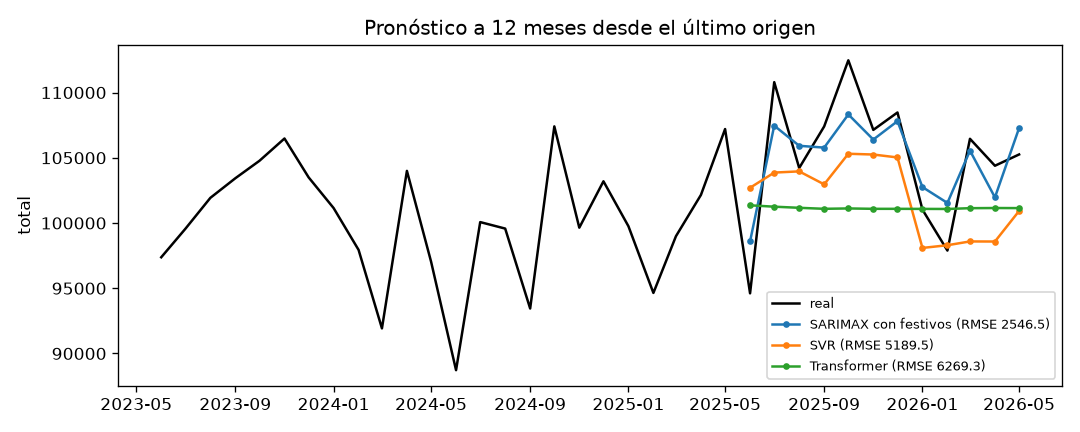
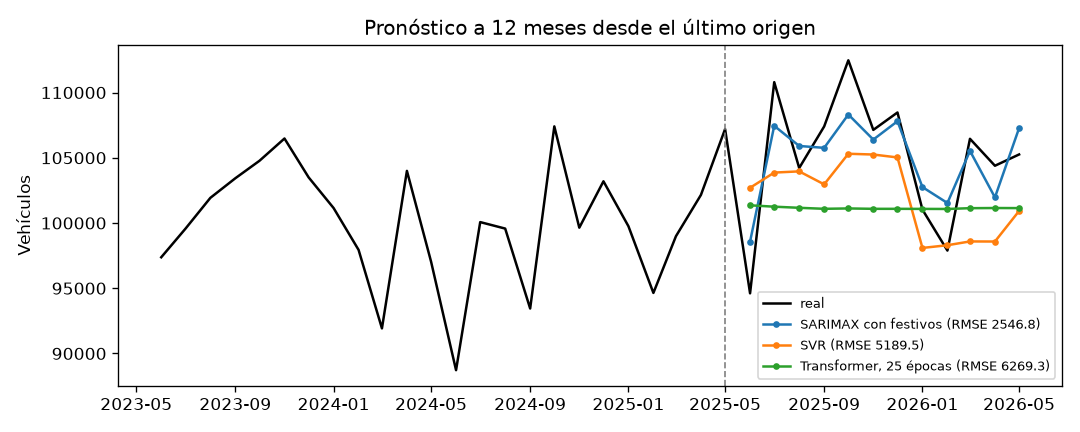
feat: 5. La tabla y la elección

Changed region(s): [[0.7028, 0.6921, 0.9778, 0.8727], [0.0, 0.4213, 0.0306, 0.6019]]

diff --git a/miniproyecto.py b/miniproyecto.py
@@ -514,26 +514,34 @@ def contar_parametros(ajustado):
 
 def fila(nombre, serie, modelo):
     ULTIMO.clear()
+    pronostico_final = None
+
+    def registrar(entrenamiento, h):
+        nonlocal pronostico_final
+        pronostico_final = modelo(entrenamiento, h)
+        return pronostico_final
+
     inicio = time.perf_counter()
-    _, promedio = backtest(serie, modelo)
+    _, promedio = backtest(serie, registrar)
     segundos = time.perf_counter() - inicio
     parametros = contar_parametros(ULTIMO["modelo"]) if "modelo" in ULTIMO else 0
     print(f"  {nombre}: RMSE {promedio['RMSE']:.2f} en {segundos:.1f} s")
-    return {"modelo": nombre, "RMSE": round(promedio["RMSE"], 2),
-            "MAE": round(promedio["MAE"], 2), "MAPE": round(promedio["MAPE"], 2),
-            "parametros": parametros, "segundos": round(segundos, 1)}
+    metricas = {"modelo": nombre, "RMSE": round(promedio["RMSE"], 2),
+                "MAE": round(promedio["MAE"], 2), "MAPE": round(promedio["MAPE"], 2),
+                "parametros": parametros, "segundos": round(segundos, 1)}
+    return metricas, pronostico_final
 
 
-def graficar_pronosticos(serie, modelos):
+def graficar_pronosticos(serie, pronosticos):
     """Pronóstico desde el último origen del backtest de cada modelo elegido."""
-    entrenamiento, real = serie.iloc[:-12], serie.iloc[-12:]
+    real = serie.iloc[-HORIZONTE:]
     figura, eje = plt.subplots(figsize=(9, 3.6))
     eje.plot(serie.index[-36:], serie.iloc[-36:].to_numpy(), color="black", label="real")
-    for nombre, modelo in modelos.items():
-        pronostico = modelo(entrenamiento, 12)
+    eje.axvline(serie.index[-HORIZONTE - 1], color="gray", linestyle="--", linewidth=1)
+    for nombre, pronostico in pronosticos.items():
         eje.plot(real.index, pronostico, marker="o", markersize=3,
                  label=f"{nombre} (RMSE {rmse(real, pronostico):.1f})")
-    eje.set_ylabel(VALOR)
+    eje.set_ylabel("Vehículos")
     eje.set_title("Pronóstico a 12 meses desde el último origen")
     eje.legend(fontsize=8)
     figura.tight_layout()
@@ -541,8 +549,17 @@ def graficar_pronosticos(serie, modelos):
     plt.close(figura)
 
 
-def pendiente(parte, error):
-    print(f"  pendiente: {parte} ({error})")
+def mostrar_mayor_error(serie, pronosticos):
+    """Identifica la mayor desviación absoluta de cada modelo en el último origen."""
+    real = serie.iloc[-HORIZONTE:]
+    filas = []
+    for nombre, pronostico in pronosticos.items():
+        error = (real - pronostico).abs()
+        mes = error.idxmax()
+        filas.append({"modelo": nombre, "mes": f"{mes:%Y-%m}", "real": real.loc[mes],
+                      "pronóstico": pronostico[real.index.get_loc(mes)], "error": error.loc[mes]})
+    print("Mayor error absoluto de cada modelo desde el último origen:")
+    print(pd.DataFrame(filas).round(2).to_string(index=False))
 
 
 def main():
@@ -552,59 +569,52 @@ def main():
           f"{cruda.index[-1]:%Y-%m}, {cruda.isna().sum()} vacíos")
     serie = preparar(cruda)
     graficar_serie(serie)
+    print(f"Backtest: {N_PRUEBA - HORIZONTE + 1} orígenes de "
+          f"{serie.index[-N_PRUEBA - 1]:%Y-%m} a {serie.index[-HORIZONTE - 1]:%Y-%m}, "
+          f"hasta {HORIZONTE} meses por origen. PyTorch en {DISPOSITIVO}.")
 
     print("1. Línea base y modelo a superar")
-    filas = [fila("estacional ingenuo", serie,
-                  lambda t, h: estacional_ingenuo(t, h, PERIODO))]
-    elegidos_para_figura = {}
-    try:
-        clasico = modelo_clasico(serie)
-        filas.append(fila(NOMBRE_CLASICO, serie, clasico))
-        elegidos_para_figura[NOMBRE_CLASICO] = clasico
-    except NotImplementedError as error:
-        pendiente("parte 1", error)
+    filas, pronosticos = [], {}
+
+    def evaluar(nombre, modelo):
+        metricas, ultimo = fila(nombre, serie, modelo)
+        filas.append(metricas)
+        pronosticos[nombre] = ultimo
+        return metricas
+
+    evaluar("estacional ingenuo", lambda t, h: estacional_ingenuo(t, h, PERIODO))
+    evaluar(NOMBRE_CLASICO, modelo_clasico(serie))
+    coeficiente = ULTIMO["modelo"].params["festivos"] * ESCALA
+    print(f"  Coeficiente de festivos en el último origen: {coeficiente:.2f} vehículos.")
 
     print("2. Tabla supervisada")
-    try:
-        comprobar_sin_fuga(serie)
-        tabla_lista = True
-    except NotImplementedError as error:
-        pendiente("parte 2", error)
-        tabla_lista = False
+    comprobar_sin_fuga(serie)
 
-    if tabla_lista:
-        print("3. Aprendizaje automático")
-        try:
-            elegidos = ajustar_hiperparametros(serie)
-            graficar_importancia(serie, elegidos)
-            modelos_aa = {nombre: con_tabla(lambda f=fabrica, p=elegidos[nombre]: f(**p))
-                          for nombre, (fabrica, _) in REJILLAS.items()}
-            filas_aa = [fila(nombre, serie, modelo) for nombre, modelo in modelos_aa.items()]
-            filas += filas_aa
-            mejor_aa = min(filas_aa, key=lambda f: f["RMSE"])["modelo"]
-            elegidos_para_figura[mejor_aa] = modelos_aa[mejor_aa]
-        except NotImplementedError as error:
-            pendiente("parte 3", error)
+    print("3. Aprendizaje automático")
+    elegidos = ajustar_hiperparametros(serie)
+    graficar_importancia(serie, elegidos)
+    modelos_aa = {nombre: con_tabla(lambda f=fabrica, p=elegidos[nombre]: f(**p))
+                  for nombre, (fabrica, _) in REJILLAS.items()}
+    filas_aa = [evaluar(nombre, modelo) for nombre, modelo in modelos_aa.items()]
+    mejor_aa = min(filas_aa, key=lambda f: f["RMSE"])["modelo"]
 
-        print("4. Aprendizaje profundo")
-        try:
-            epocas = validar_redes(serie)
-            filas_red = [fila(f"{nombre}, {e} épocas", serie, con_tabla(red(nombre, e)))
-                         for nombre, e in epocas.items()]
-            filas += filas_red
-            mejor = min(zip(epocas, filas_red), key=lambda par: par[1]["RMSE"])[0]
-            elegidos_para_figura[mejor] = con_tabla(red(mejor, epocas[mejor]))
-            repetir_con_semillas(serie, mejor, epocas[mejor])
-        except NotImplementedError as error:
-            pendiente("parte 4", error)
+    print("4. Aprendizaje profundo")
+    epocas = validar_redes(serie)
+    filas_red = {
+        nombre: evaluar(f"{nombre}, {e} épocas", con_tabla(red(nombre, e)))
+        for nombre, e in epocas.items()
+    }
+    mejor_red = min(filas_red, key=lambda nombre: filas_red[nombre]["RMSE"])
+    repetir_con_semillas(serie, mejor_red, epocas[mejor_red])
 
     print("5. La tabla")
     tabla = pd.DataFrame(filas).sort_values("RMSE")
     tabla.to_csv(RESULTADOS / "metricas.csv", index=False)
     print(tabla.to_string(index=False))
     print("Mejor modelo por RMSE:", tabla.iloc[0]["modelo"])
-    if len(elegidos_para_figura) > 1:
-        graficar_pronosticos(serie, elegidos_para_figura)
+    mostrar_mayor_error(serie, pronosticos)
+    comparar = (NOMBRE_CLASICO, mejor_aa, filas_red[mejor_red]["modelo"])
+    graficar_pronosticos(serie, {nombre: pronosticos[nombre] for nombre in comparar})
     print(f"Tiempo total: {time.perf_counter() - inicio:.0f} s")
 
 
